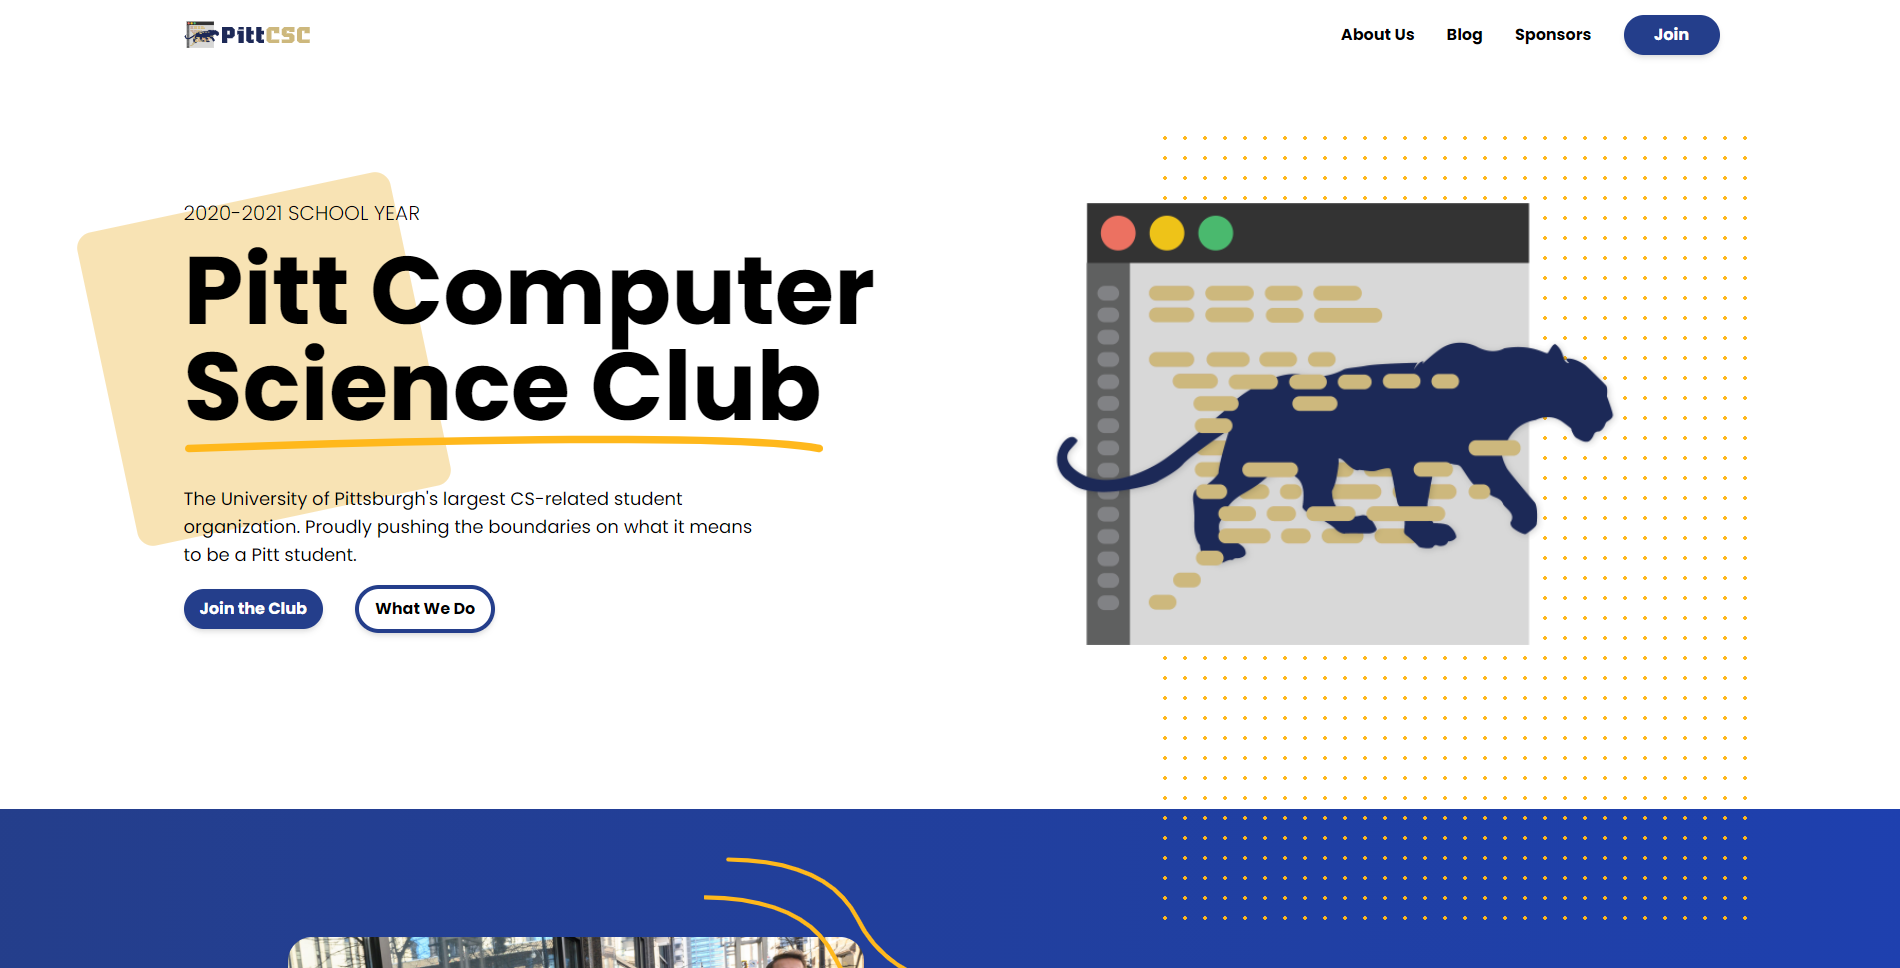
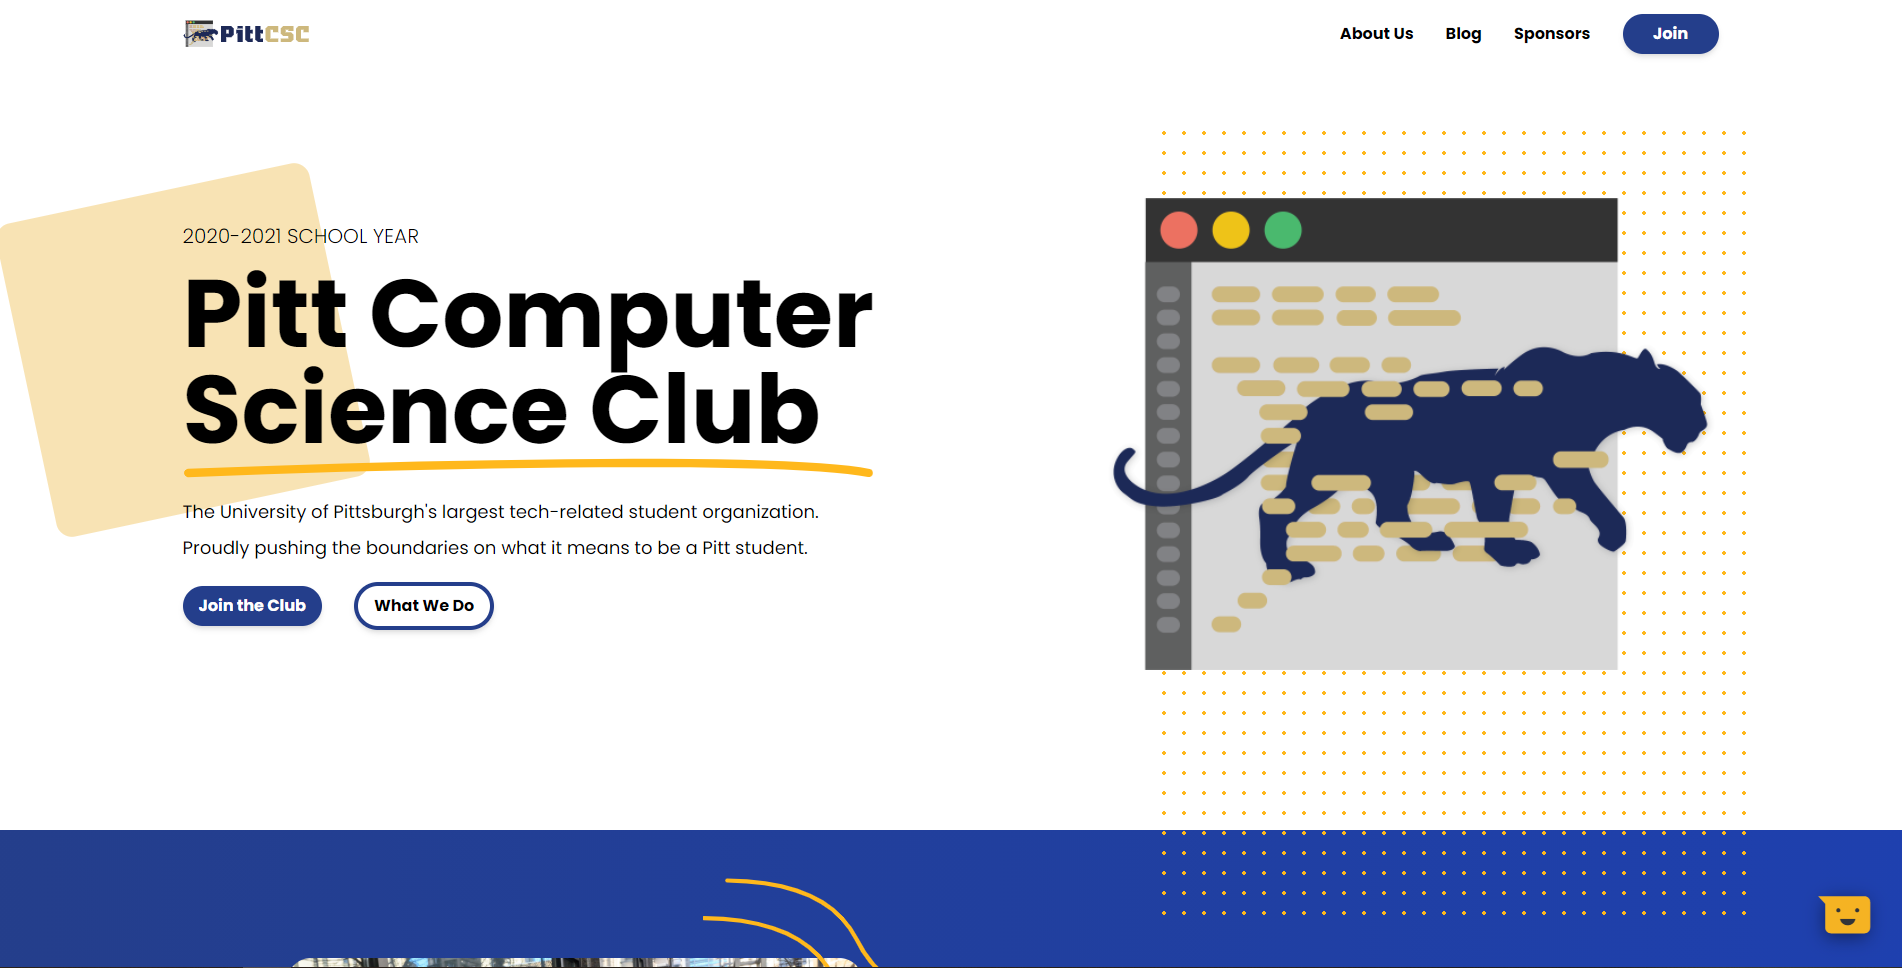
feat: figma comparison and image styling

diff --git a/pages/[project].js b/pages/[project].js
@@ -82,27 +82,59 @@ export default function Project() {
         </div>
       </nav>
       <main className="project-main">
-        {projectObject && (
-          <motion.img
-            className="main-image"
-            src={projectObject.image}
-            alt={projectObject.name}
-          />
-        )}
-
         <div className="text-content">
           <h1>{projectObject?.name}</h1>
-          <p>{projectObject?.description}</p>
+          {projectObject?.description.split("\n").map((str, index) => (
+            <p key={index}>{str}</p>
+          ))}
         </div>
-        {projectObject?.name && (
+        {projectObject?.figma && projectObject?.old ? (
+          <div className="figma-comparison">
+            <div className="figma-1">
+              <motion.img
+                src={projectObject.old}
+                alt={`${projectObject.name} Old Site`}
+              />
+              <h2>Old Version</h2>
+            </div>
+            <div className="figma-1">
+              <motion.img
+                src={projectObject.figma}
+                alt={`${projectObject.name} Design Mockup`}
+              />
+              <h2>Design Mockup</h2>
+            </div>
+
+            <div className="figma-2">
+              <motion.img
+                src={projectObject.image}
+                alt={`${projectObject.name} Live Site`}
+              />
+              <h2>Live Version</h2>
+            </div>
+          </div>
+        ) : projectObject?.figma ? (
+          <div className="figma-comparison">
+            <div className="figma-1">
+              <motion.img
+                src={projectObject.figma}
+                alt={`${projectObject.name} Design Mockup`}
+              />
+              <h2>Design Mockup</h2>
+            </div>
+
+            <div className="figma-2">
+              <motion.img
+                src={projectObject.image}
+                alt={`${projectObject.name} Live Site`}
+              />
+              <h2>Live Version</h2>
+            </div>
+          </div>
+        ) : (
           <div className="figma-comparison">
             <div className="figma-1">
               <motion.img src={projectObject.image} alt={projectObject.name} />
-              <h2>Figma Design</h2>
-            </div>
-            <div className="figma-2">
-              <motion.img src={projectObject.image} alt={projectObject.name} />
-              <h2>Live Version</h2>
             </div>
           </div>
         )}

diff --git a/components/data.js b/components/data.js
@@ -3,8 +3,12 @@ export const projectsList = [
     id: 1,
     name: "Pitt CSC",
     description:
+      "Redesigned and developed the website for the Pitt Computer Science Club that helps advertise its efforts to support computer science and technology-related initiatives.",
+    longDescription:
       "Appointed as a club officer for the Pitt Computer Science Club, both to support initiatives and to redesign the club website.",
     image: "/images/Pitt_CSC_Screenshot.png",
+    figma: "/images/Pitt_CSC_Figma_Screenshot.png",
+    old: "/images/Original_CSC_Site_Screenshot.png",
     link: "https://pittcsc.org/",
     project: "pitt-csc",
     GitHub: "https://github.com/pittcsc/pittcsc-website",
@@ -16,6 +20,7 @@ export const projectsList = [
     description:
       "Cooperated with another developer and two pharmacy students to create a website that tracks cannabis strain availability in the Pennsylvania area. Helped create the REST API and backend with Django Rest Framework.",
     image: "/images/Green_Pages_Screenshot.png",
+    figma: "/images/Green_Pages_Figma_Screenshot.png",
     link: "https://green-pages-infotender.herokuapp.com/",
     project: "green-pages",
     GitHub: "https://github.com/CQS-Software/Green-Pages",
@@ -27,6 +32,7 @@ export const projectsList = [
     description:
       "A website that allows students to grade their college financial aid packages using data from the US Department of Education.\nThis was built for Pitt CSC Hacks, a competition sponsored by the University of Pittsburgh's Computer Science Club.",
     image: "/images/www.grademyaid.com_.png",
+    figma: "/images/Grademyaid_Figma_Screenshot.png",
     link: "https://www.grademyaid.com/",
     project: "grademyaid",
     GitHub: "https://github.com/GameDog9988/grade-my-aid",

diff --git a/styles/Project.scss b/styles/Project.scss
@@ -87,7 +87,7 @@
 
       h1 {
         text-align: center;
-        font-size: 4rem;
+        font-size: 6rem;
         @media (max-width: 768px) {
           font-size: 2.5rem;
         }
@@ -104,12 +104,17 @@
     }
     .figma-comparison {
       width: 100%;
-      display: grid;
-      place-items: center;
       text-align: center;
-      grid-template-columns: repeat(auto-fit, minmax(300px, 1fr));
+      display: flex;
+      justify-content: center;
+      gap: 1rem;
+      align-items: center;
+      flex-wrap: wrap;
+      // display: grid;
+      // place-items: center;
+      // grid-template-columns: repeat(auto-fit, minmax(300px, 1fr));
+      // gap: 2rem;
       margin: 2rem auto;
-      gap: 2rem;
       .figma-1 {
         padding: 1rem;
         img {
